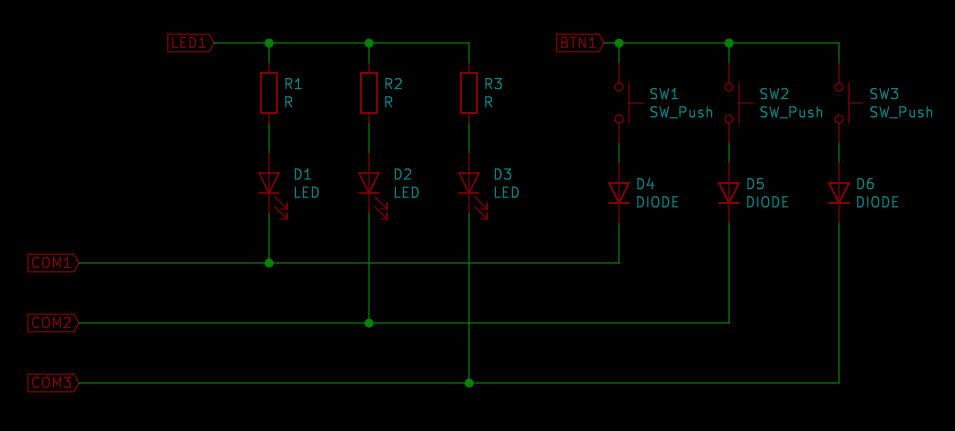
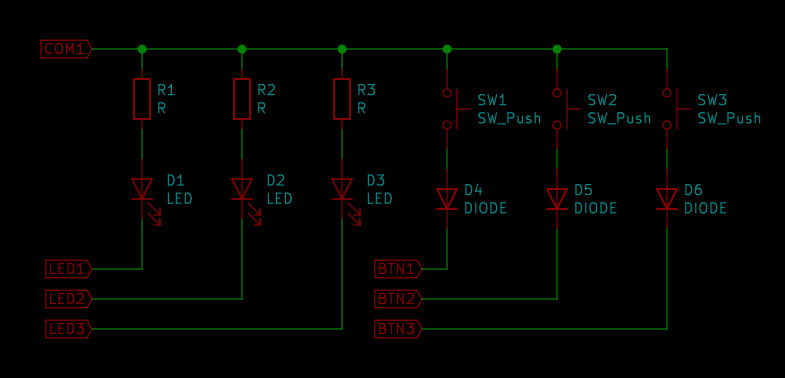
hw: change LEDs and buttons connection

diff --git a/hw/readme.md b/hw/readme.md
@@ -1,5 +1,5 @@
 # Buttons and LEDs multiplexing
 
-Buttons and LEDs are connected as 3x3 matrix. Common/ground pins are shared, LEDs anodes and buttons sense pins are separated. One group is shown on the picture below, other two are similar.
+Buttons and LEDs are connected as 3x3 matrix. Common/vcc pins are shared, LEDs cathodes and buttons sense pins are separated. One group is shown on the picture below, other two are similar.
 
 ![Buttons and LEDs connection](/img/btn_mux.jpg "Buttons and LEDs connection")
